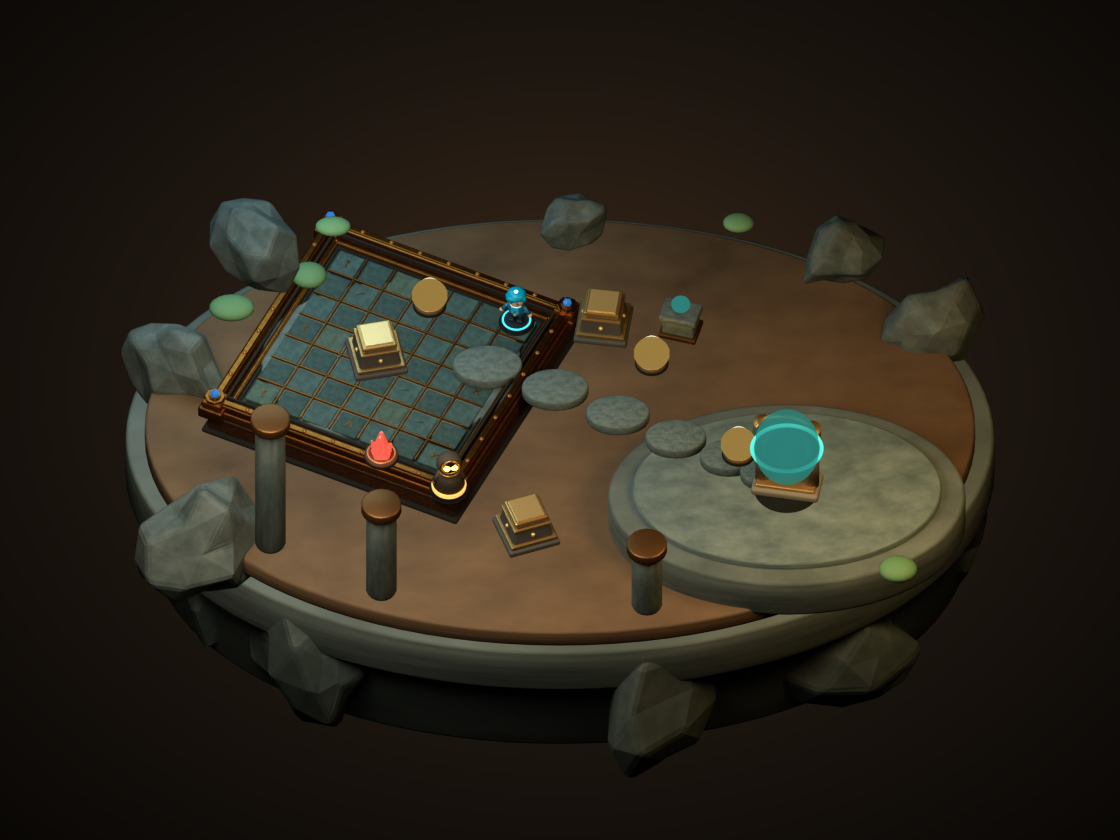
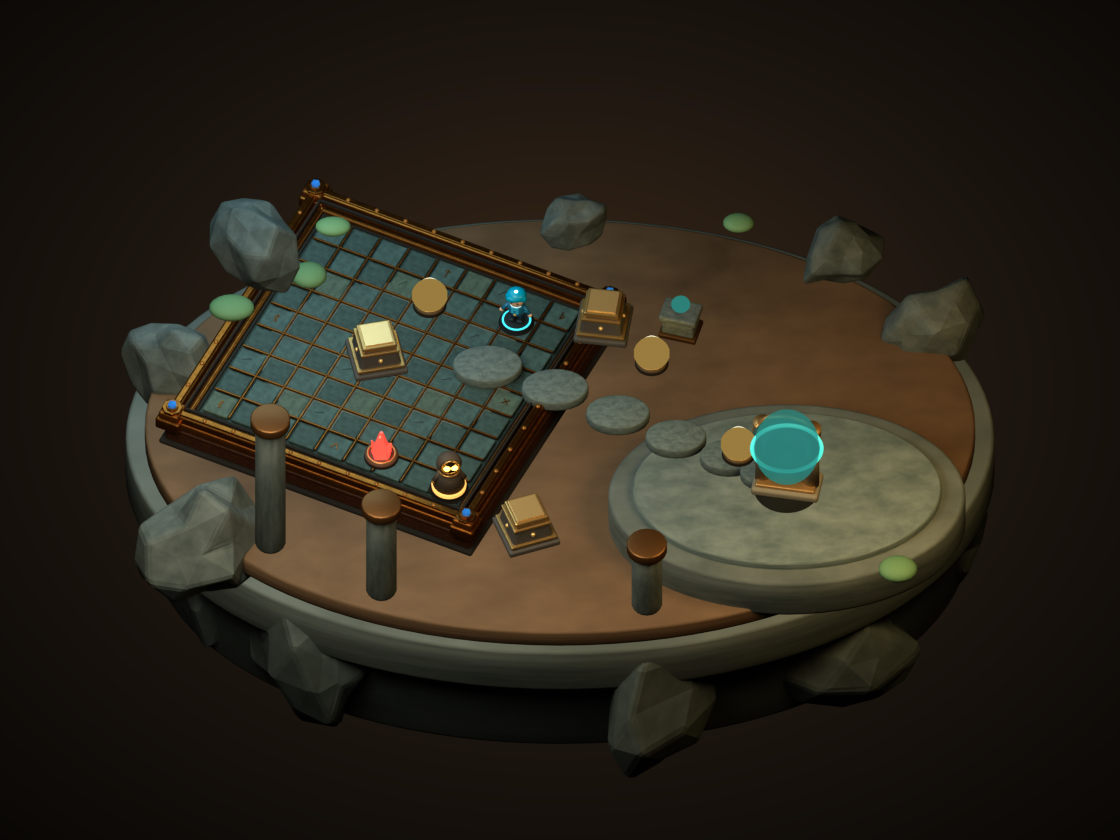
fix(home): re-render the Route structure pass onto the 9x9 board
The previous mission found route-structure.png disagreeing with what the
committed generator produces, and left it unshipped because the cause was
unknown. The cause is not the generator, and the drift is not cosmetic: the
archived pass depicts a board the game deliberately fixed.

The generator's structure code path has not changed since c2ec413, which is
before the artifact was rendered at 5004477. What changed afterwards is
board.glb, replaced at 894b677 by ROTA-BOARD-9X9-SYNC-01: 49 tiles to 81,
footprint 9.123 to 11.123. build_route imports it at a fixed scale of 0.33, so a
model 22 percent larger renders 22 percent larger, and nothing in the generator
had to change for the Home to drift.

Proven rather than inferred: checking board.glb out at 5004477 and re-rendering
with the current, unmodified generator reproduces the committed pass at 0.000%
differing, maxDelta 0. One variable accounts for the whole difference.

The current asset is authoritative because the archived pass shows a known
defect. In the sync mission's own measurements, 32 of the 81 cells had no tile
under them and the Explorer started the route standing on the frame rail. The
before/after crops show exactly that, with every piece back on a tile after.
The Home was reproducing the bug the game had already fixed.

GENERATOR DELTA = 0 — no generator file was touched. Only the stale artifact and
its encoded output changed.

Rendered twice, all eight passes are pixel-identical between runs, so the render
[…]

Changed region(s): [[0.125, 0.2167, 0.5625, 0.681]]

diff --git a/docs/archive/mindflow-home-visual-05-route-structure-drift/README.md b/docs/archive/mindflow-home-visual-05-route-structure-drift/README.md
@@ -1,0 +1,157 @@
+# MINDFLOW-HOME-VISUAL-05 — the Route maquette was still showing a 7×7 board
+
+The previous mission found that `route-structure.png` did not match what the
+committed generator produces: the generated board was larger, by 29 044 opaque
+pixels and none lost. It was left unshipped because its cause was unknown.
+
+The cause is not the generator, and the drift is not cosmetic. The archived pass
+depicts a board the game deliberately fixed.
+
+## Timeline
+
+| commit | date | what |
+| --- | --- | --- |
+| `c2ec413` | 2026-08-01 | `create_hero_world_dioramas.py` written; Route passes first rendered |
+| `5004477` | 2026-08-06 | `route-structure.png` re-rendered — the version committed until now |
+| `894b677` | 2026-08-06, **after** | `board.glb` replaced by ROTA-BOARD-9X9-SYNC-01 |
+
+The generator's `structure` code path has not changed since `c2ec413`, which is
+*before* the artifact was rendered. The file was edited once afterwards, by
+MINDFLOW-HOME-VISUAL-04, and only in the `props` and `energy` layers.
+
+## STRUCTURE_DRIFT_ROOT_CAUSE
+
+`public/models/route/board.glb`, replaced at `894b677`.
+
+`build_route` imports it at a fixed scale:
+
+```python
+import_glb("structure", "board", "Route_Board", (-1.75, 0.12, 1.05), 0.33, rotation_y=-26)
+```
+
+Nothing about that line changed. The model underneath it did. From that
+mission's own measurements (`docs/archive/route-board-9x9-sync-01/README.md`):
+
+| | 7×7 (before) | 9×9 (after) |
+| --- | --- | --- |
+| tiles | 49 | **81** |
+| tile centres X/Z | −3 … +3 | **−4 … +4** |
+| playable field | 7.00 | **9.00** |
+| total footprint | 9.123 | **11.123** |
+| weight | 1 817 KB | **2 181 KB** |
+
+A footprint 22 % larger, imported at an unchanged scale, renders 22 % larger.
+
+### Proven, not inferred
+
+Checking `board.glb` out at `5004477` and re-rendering with the **current,
+unmodified** generator reproduces the committed pass exactly:
+
+```
+committed : docs/archive/home-hero-worlds-3d-01/raw/route/route-structure.png
+differing : 0.000%   maxDelta 0
+opaque appeared 0   opaque disappeared 0
+IDENTICAL
+```
+
+One variable, swapped, accounts for the whole difference.
+
+- `COMMITTED_PNG_MATCHES_HISTORICAL_GENERATOR` = **YES** — with the board of its day
+- `CURRENT_GENERATOR_CHANGED_AFTER_ARTIFACT` = **NO**, for anything reaching `structure`
+
+## Source of truth: the current generator and asset
+
+Not because a generator is presumed right. Because the archived pass shows a
+**known defect**, in ROTA-BOARD-9X9-SYNC-01's own words:
+
+> O grid lógico 9x9 ocupa 9,00 unidades. O campo de tiles ocupava 7,00. […]
+> **32 das 81 células não tinham tile embaixo**: o anel externo caía no fosso e no
+> trilho da moldura. O Explorador nasce em (8,0), fora do campo — ele
+> literalmente começava a rota em cima da moldura.
+
+`board-7x7-before.png` shows exactly that: the Explorer standing on the frame
+rail, the Guardian outside the tile field, the trap half on the moulding.
+`board-9x9-after.png` has every piece on a tile.
+
+The Home was reproducing the bug the game had already fixed — the same class of
+problem as the Shield the previous mission removed, and found the same way.
+
+## Determinism
+
+Rendered twice in a row, all eight passes compared pixel by pixel:
+
+```
+route-base        0.0000%   PIXELS IDENTICAL
+route-characters  0.0000%   PIXELS IDENTICAL
+route-energy      0.0000%   PIXELS IDENTICAL
+route-front       0.0000%   PIXELS IDENTICAL
+route-props       0.0000%   PIXELS IDENTICAL
+route-shadow      0.0000%   PIXELS IDENTICAL
+route-structure   0.0000%   PIXELS IDENTICAL
+route-terrain     0.0000%   PIXELS IDENTICAL
+```
+
+`ROUTE_STRUCTURE_RENDER_DETERMINISTIC = YES`.
+
+With one operational caveat worth writing down: `route-base.png` and
+`route-shadow.png` came back with **different SHA-256 but identical pixels** —
+the PNG container is not byte-reproducible even when the image is. So a blanket
+"re-render everything" will always show a spurious diff on those two files, and
+passes that did not need to change are restored from `HEAD` instead of being
+re-committed.
+
+## Only `structure` changed
+
+Working tree against `HEAD`, per pass:
+
+```
+pass            diff %  maxDelta  appeared   gone
+shadow           0.000         0         0      0
+base             0.000         0         0      0
+terrain          0.000         0         0      0
+structure        8.816       255     29044      0
+props            0.000         0         0      0
+characters       0.000         0         0      0
+energy           0.000         0         0      0
+front            0.000         0         0      0
+```
+
+`props` and `energy` identical to `HEAD` means the Chest from
+MINDFLOW-HOME-VISUAL-04 is preserved bit for bit.
+
+## Deltas
+
+**`GENERATOR DELTA = 0`.** No generator file was touched. The generator was
+already correct; only the artifact was behind.
+
+| | |
+| --- | --- |
+| raw PNG | `route-structure.png` |
+| runtime WebP | `route-structure.webp`, 23.1 → 27.2 KB; `route-world` total 89.0 → 93.0 KB |
+| review sheets | `route-world-composite.png`, `route-world-layers.png`, `hero-asset-weights.json` (route only) |
+| other worlds | Circuit, Garden, Panel, Trail — **0 files changed** |
+
+Silhouette guard still passes: margins t177 b224 l155 r296. The larger board
+comes closer to the top edge and keeps a real transparent margin.
+
+## Regressions
+
+| check | result |
+| --- | --- |
+| lint / `tsc --noEmit` / `next build` | 0 / 0 / 0, compiled in 31.2s |
+| CORE battery | 15/15, `VALIDATION_CHECK_IS_READ_ONLY`, `CORE_BATTERY_PASSED` |
+| DEEP `final-acceptance` | 1080/1080, 270/270, recovery 9/9 |
+| Shield | `shield.glb` and its generator still absent |
+| Babylon | 7 gameplay GLBs present, 3 lights, one renderer owner |
+| Memory Circuit | v2 assets 7/7, `circuit-world` 7/7 |
+| world layers | route-world 8, circuit-world 7, garden/panel/trail 7 each — none missing |
+| EOL | 0 files outside the LF policy |
+| `git diff --check` | exit 0 |
+
+## Follow-up
+
+The Home maquette imports gameplay GLBs at fixed scales, so any future change to
+a model's footprint silently changes the Home and nothing notices until someone
+re-renders. A cheap guard would be a check that the committed passes still match
+what the generator produces — the same comparison used here, run as a validator.
+Recorded, not built.
